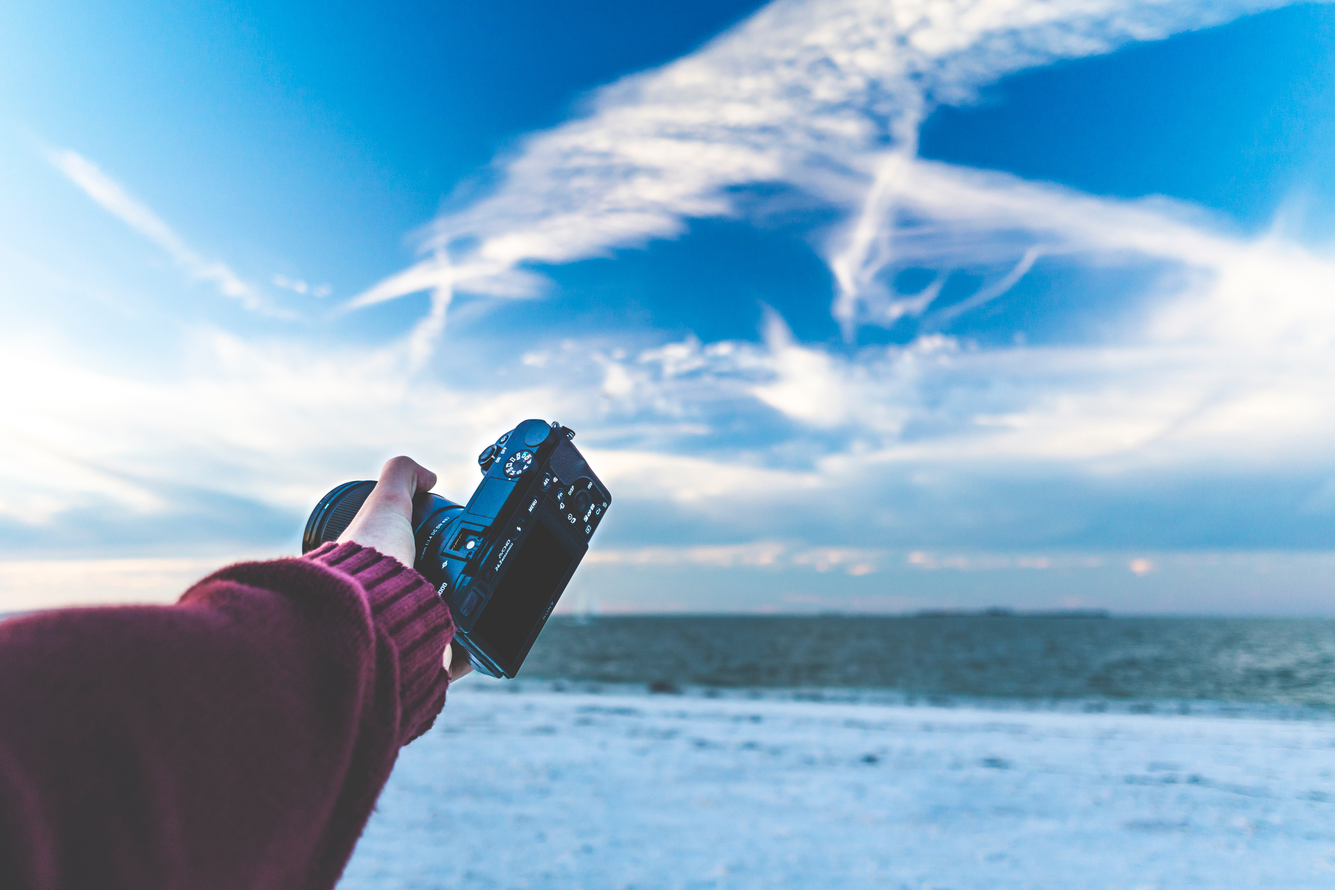
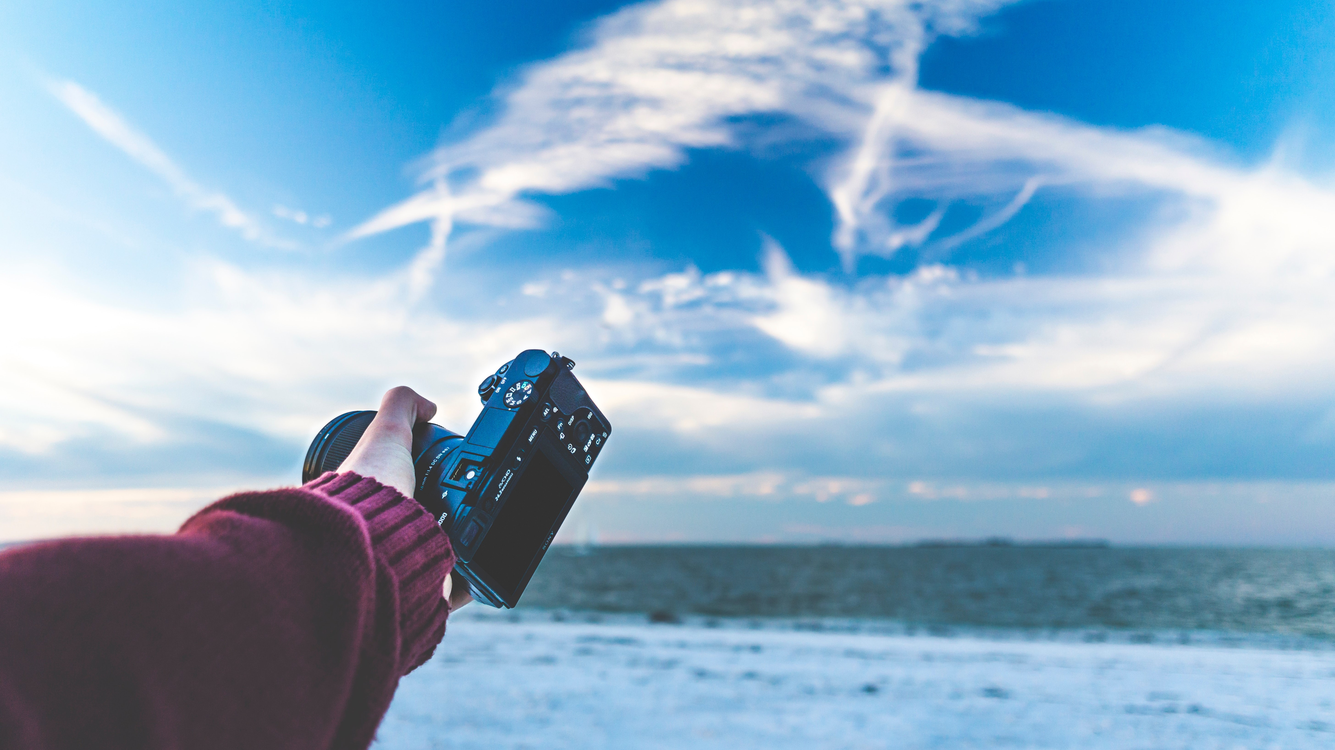
carousel photo ratio 16:9

diff --git a/index.html b/index.html
@@ -4,7 +4,7 @@
     <meta charset="UTF-8">
     <meta name="viewport" content="width=device-width, initial-scale=1.0">
     <meta http-equiv="X-UA-Compatible" content="ie=edge">
-    <title>TNBT Model Academy</title>
+    <title>TNBT Model</title>
     <!-- bootstrap CDN start -->
     <link rel="stylesheet" href="https://stackpath.bootstrapcdn.com/bootstrap/4.3.1/css/bootstrap.min.css" integrity="sha384-ggOyR0iXCbMQv3Xipma34MD+dH/1fQ784/j6cY/iJTQUOhcWr7x9JvoRxT2MZw1T" crossorigin="anonymous">
     <script src="https://code.jquery.com/jquery-3.3.1.slim.min.js" integrity="sha384-q8i/X+965DzO0rT7abK41JStQIAqVgRVzpbzo5smXKp4YfRvH+8abtTE1Pi6jizo" crossorigin="anonymous"></script>
@@ -72,13 +72,13 @@
             </ol>
             <div class="carousel-inner">
                 <div class="carousel-item active">
-                    <img src="asset/image/carousel1.jpg" class="d-block w-100 h-50" alt="...">
+                    <img src="asset/image/carousel1.jpg" class="d-block w-100" alt="...">
                 </div>
                 <div class="carousel-item">
-                    <img src="asset/image/carousel2.jpg" class="d-block w-100 h-50" alt="...">
+                    <img src="asset/image/carousel2.jpg" class="d-block w-100" alt="...">
                 </div>
                 <div class="carousel-item">
-                    <img src="asset/image/carousel3.jpg" class="d-block w-100 h-50" alt="...">
+                    <img src="asset/image/carousel3.jpg" class="d-block w-100" alt="...">
                 </div>
             </div>
             <a style="visibility: hidden;" class="carousel-control-prev" href="#carouselExampleFade" role="button" data-slide="prev">
